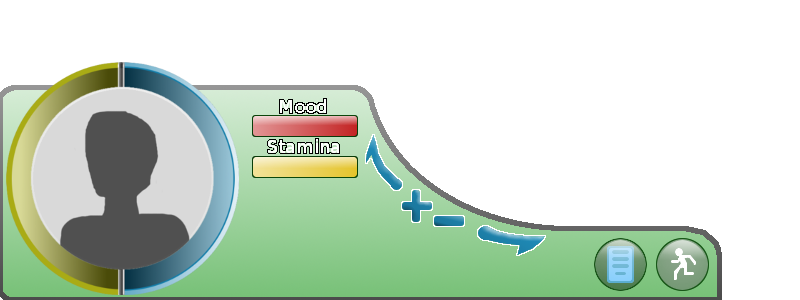
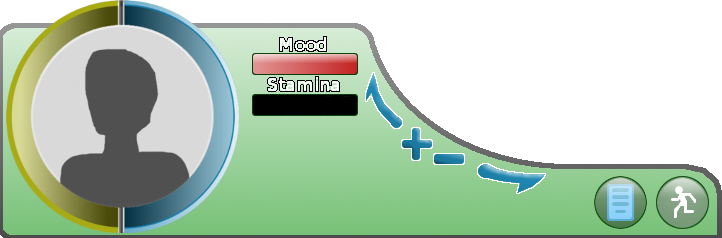
Added horizontal status bar class, stamina bar added as an example. Process click buttons are assigned functions in the beginning rather than passed.

diff --git a/GameApp/game_app_3d.py b/GameApp/game_app_3d.py
@@ -157,19 +157,25 @@ class GameApp3d:
         # setup the process pipelining
         # @warning Not yet implemented
         self.SetupExecutionCycles()
+
+        #dashboard
+        self.dashboard = DashBoard( "%s/gui/graphics/dashboard.png" % self.DATA_PATH, 722, 238, 20, (0,238), (-300,0))
         
         #popup dialog has 2 elements: a button and a static piece of text
         self.dialog = PopupDialog( "%s/gui/graphics/background_light_clouds.png" % self.DATA_PATH, Vector3d( 0, 0, 1.0 ), 100, 100 )
-        button_basic = self.m_SplashLogo = TexturedRect( "%s/gui/graphics/button_basic.png" % self.DATA_PATH, Vector3d(100,100,1), 30, 30 )
-        button_hover = self.m_SplashLogo = TexturedRect( "%s/gui/graphics/button_hover.png" % self.DATA_PATH, Vector3d(100,100,1), 30, 30 )
-        button_clicked = self.m_SplashLogo = TexturedRect( "%s/gui/graphics/button_clicked.png" % self.DATA_PATH, Vector3d(100,100,1), 30, 30 )
-        test_button = DialogButton( self.dialog, (35,35), button_basic, button_hover, button_clicked, self.m_Camera)
+        button_basic = TexturedRect( "%s/gui/graphics/button_basic.png" % self.DATA_PATH, Vector3d(100,100,1), 30, 30 )
+        button_hover = TexturedRect( "%s/gui/graphics/button_hover.png" % self.DATA_PATH, Vector3d(100,100,1), 30, 30 )
+        button_clicked = TexturedRect( "%s/gui/graphics/button_clicked.png" % self.DATA_PATH, Vector3d(100,100,1), 30, 30 )
+        test_button = DialogButton( self.dialog, (35,35), button_basic, button_hover, button_clicked, self.m_Camera,  self.dashboard.Toggle, ())
         test_text = DialogText( self.dialog, (8, 30), self.m_Camera, self.font, "Dashboard", (255,0,0) ) 
         self.dialog.AddElement( test_button)
         self.dialog.AddElement( test_text )
-        #dashboard
-        self.dashboard = DashBoard( "%s/gui/graphics/dashboard.png" % self.DATA_PATH, 800, 300, 20, (0,300), (-600,0))
-        
+        #stamina bar
+        yellow_bar = TexturedRect( "%s/gui/graphics/stamina_bar.png" % self.DATA_PATH, Vector3d(100,100,1), 106, 22 )
+        stamina_bar = HorizontalBar( self.dashboard, (252, 94), self.m_Camera, 1000, yellow_bar )
+        self.dashboard.AddElement( stamina_bar )
+        pygame.time.set_timer(USEREVENT+1, 250)
+
         #Event Class queue
         self.events = collections.deque()
 
@@ -422,9 +428,8 @@ class GameApp3d:
                     addVec = Vector3d( 0.5, 0, 0.5 )
                     self.m_SelectedArea.BeginEditing()
                     self.m_SelectedArea.SetBegin( l_Start, l_Start + addVec )
-                    
-                #elif event.button == 3: #Right Mouse Button opens and closes gui dialog
-                #    self.dialog.Toggle(self.m_Camera)
+                
+                    pass
                 elif event.button == 4:
                     self.m_Camera.ZoomIn( 1 )
                 elif event.button == 5:
@@ -450,13 +455,16 @@ class GameApp3d:
                     
                     self.m_GroundFloorObjects.insert( 1, l_Floor )
 
+            elif event.type == USEREVENT+1:
+                self.dashboard.elements[0].Decrease(1)
+                    
             elif event.type == QUIT:
                 return False
 
         while(len(self.events)): #go through event queue and process each event
             e = self.events.pop()
             if e.category == MOUSE:
-                self.dialog.elements[0].ProcessClick(e, self.dashboard.Toggle, ())
+                self.dialog.elements[0].ProcessClick( e )
                 self.dialog.ProcessClick( e, self.m_Camera )
             
         if self.m_SelectedArea.IsEditing():
@@ -601,9 +609,10 @@ class GameApp3d:
         #GUI stuff
         glDisable( GL_LIGHTING )
         self.m_Camera.BeginDrawing2d()
+        self.dashboard.Draw()
         self.dialog.Draw()
         #self.font.glPrint( self.dialog.GetX() + 10, self.dialog.GetY() - 100, "%i, %i" % (pygame.mouse.get_pos()), [0,0,0])
-        self.dashboard.Draw()
+        
         self.m_Camera.EndDrawing2d()
         glEnable( GL_LIGHTING )
             

diff --git a/GameApp/misc_ui.py b/GameApp/misc_ui.py
@@ -224,12 +224,14 @@ class DialogElement():
         pass
 
 class DialogButton( DialogElement ):
-    def __init__( self, container, offset, basic, hover, clicked, camera ):
+    def __init__( self, container, offset, basic, hover, clicked, camera, func, args ):
         DialogElement.__init__( self, container, offset, camera )
         self.basic_image = basic
         self.hover_image = hover
         self.clicked_image = clicked
         self.clicked = False
+        self.func = func
+        self.args = args
         
     def SetPosition( self ):
         DialogElement.SetPosition( self )
@@ -254,12 +256,12 @@ class DialogButton( DialogElement ):
         else:
             self.basic_image.Draw()
             
-    def ProcessClick( self, mouse_event, function, args ):
+    def ProcessClick( self, mouse_event ):
         if self.Within(mouse_event.x, mouse_event.y):
             if mouse_event.l_click:
                 self.clicked = True
             elif self.clicked and not (mouse_event.s_up or mouse_event.s_down):
-                apply(function, args)#button function here 
+                apply(self.func, self.args)#button function here 
                 self.clicked = False
         else:
             self.clicked = False
@@ -313,6 +315,7 @@ class DashBoard ( Dialog ):
             if self.IsOutside():
                 self.state = DashBoardState.OUT
         Dialog.Draw (self)
+        
 
     def IsInside( self ):
         for x in range(2):
@@ -331,4 +334,36 @@ class DashBoard ( Dialog ):
             self.state = DashBoardState.SLIDE_OUT
         elif self.state == DashBoardState.OUT or self.state == DashBoardState.SLIDE_OUT:
             self.state = DashBoardState.SLIDE_IN
+
+class HorizontalBar( DialogElement ):
+    def __init__( self, container, offset, camera, maximum, front ):
+        DialogElement.__init__( self, container, offset, camera )
+        self.current = float( maximum )
+        self.max = float ( maximum )
+        self.front = front
+        self.max_width = self.front.m_Width
         
+    def Decrease( self, amount = 1):
+        if self.current > 0:
+            self.current -= amount
+            if self.current < 0:
+                self.current = 0
+            
+    def Increase( self, amount = 1):
+        if self.current < self.max:
+            self.current -= amount
+            if self.current > self.max:
+                self.current = 0
+
+    def SetPosition( self ):
+        DialogElement.SetPosition( self )
+        self.front.m_Values = self.position
+
+    def SetSize( self ):
+        width = ( self.current / self.max ) * self.max_width
+        self.front.m_Width = width
+        
+    def Draw( self ):
+        self.SetPosition()
+        self.SetSize()
+        self.front.Draw()

diff --git a/GameApp/system.py b/GameApp/system.py
@@ -13,6 +13,7 @@ class MouseEvent( Event ):
         self.l_click, self.m_click, self.r_click = pygame.mouse.get_pressed()
         self.s_up = False
         self.s_down = False
+        
         if pygame_event.button == 4:
             self.s_up = True
         if pygame_event.button == 5:
